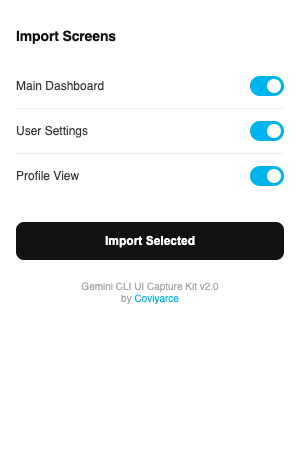
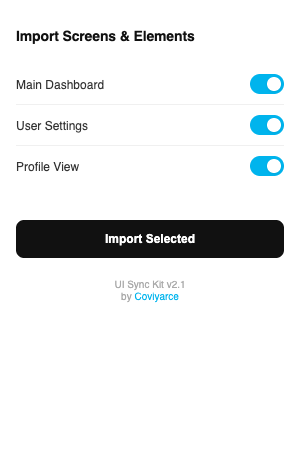
docs: restore visual previews and finalize generic toolkit
- Re-added Visual Preview section to README.\n- Regenerated blurred and generic screenshots.\n- Cleaned up Polaris-specific metadata from capture config and plugin UI.

diff --git a/README.md b/README.md
@@ -6,15 +6,29 @@ Built specifically to bridge the gap in environments where the native Figma MCP 
 
 ---
 
+## 🖼 Visual Preview
+
+### High-Fidelity UI Capture
+The toolkit captures complex web interfaces with pixel-perfect accuracy, preserving the hierarchy, typography, and styling of your Design System.
+
+![Web App Preview](assets/app-preview.png)
+
+### Modern Figma Plugin UI
+A sleek, toggle-based interface allows you to selectively import multiple screens and resolutions directly into your Figma workspace.
+
+<img src="assets/plugin-ui.png" width="300" alt="Plugin UI Preview">
+
+---
+
 ## ✨ Features & Evolution
 
 This tool evolved through rigorous iteration to achieve near-perfect design fidelity:
 
-- **1.0: Basic Capture** - Initial implementation of DOM scanning (Portrait only).
-- **2.0: Multi-Resolution** - Support for dual-view captures (1080p and 720p) to test responsiveness.
+- **1.0: Basic Capture** - Initial implementation of DOM scanning.
+- **2.0: Multi-Resolution** - Support for dual-view captures (e.g., 1080p and 720p) to test responsiveness.
 - **3.0: Precision Alignment** - Added support for CSS Flexbox, Padding, and Text Alignment, ensuring content is centered exactly as in the browser.
 - **4.0: High Fidelity** - Support for `box-shadow` (translated to Figma Drop Shadows), full borders, and corner radii.
-- **5.0: Vector & Icons** - Real SVG extraction and rendering using Figma's vector engine. Support for Material Icon fonts and automatic color synchronization with design themes.
+- **5.0: Vector & Icons** - Real SVG extraction and rendering using Figma's vector engine. Support for Icon fonts and automatic color synchronization with design themes.
 
 ---
 
@@ -38,27 +52,39 @@ Clone this toolkit into your project or as a standalone tool:
 ```bash
 git clone https://github.com/coviyarce/gemini-cli-ui-capture.git
 cd gemini-cli-ui-capture
-npm install puppeteer
+npm install
 ```
 
-### 2. Capture your UI
-Run the capture script to generate the UI blueprint. Ensure your local dev server is running (e.g., `http://localhost:5173`).
+### 2. Configure Screens
+Edit `capture-config.json` to define the screens you want to capture:
+```json
+{
+  "baseUrl": "http://localhost:[YOUR_PORT]",
+  "screens": [
+    { "category": "Pages", "id": "dashboard", "name": "Main Dashboard", "selector": "main" },
+    { "category": "Modals", "id": "settings", "name": "Settings Page", "selector": ".settings-container" }
+  ]
+}
+```
+
+### 3. Capture your UI
+Run the capture script to generate the UI blueprint. Ensure your local dev server is running.
 ```bash
-node scripts/capture-to-figma.cjs
+npm run capture
 ```
 This generates `ui-structure.json` containing the detailed map of your interface.
 
-### 3. Update the Plugin
+### 4. Update the Plugin
 Sync the captured data into the Figma plugin code:
 ```bash
-node scripts/update-plugin.cjs
+npm run update-plugin
 ```
 
-### 4. Run in Figma
+### 5. Run in Figma
 1. Open Figma -> Menu -> **Plugins** -> **Development** -> **Import plugin from manifest...**
 2. Select the `figma-plugin/manifest.json` file from this folder.
-3. Run **"Polaris Sync Plugin"**.
-4. The tool will detect your current viewport center and create two frames (1080p & 720p) with editable vector layers.
+3. Run **"UI Sync Plugin"**.
+4. The tool will detect your current viewport center and create frames with editable vector layers.
 
 ---
 
@@ -78,5 +104,6 @@ This tool is designed for private use. It does **not** store or transmit your Fi
 
 ---
 
-## 🤝 Contribution
-Created and maintained by **coviyarce**. Feel free to fork and adapt for your own Design Systems!
+## 🤝 Attribution
+Created and maintained by [**Coviyarce**](https://github.com/coviyarce/gemini-cli-ui-capture). 
+Built with 💎 Gemini CLI.
